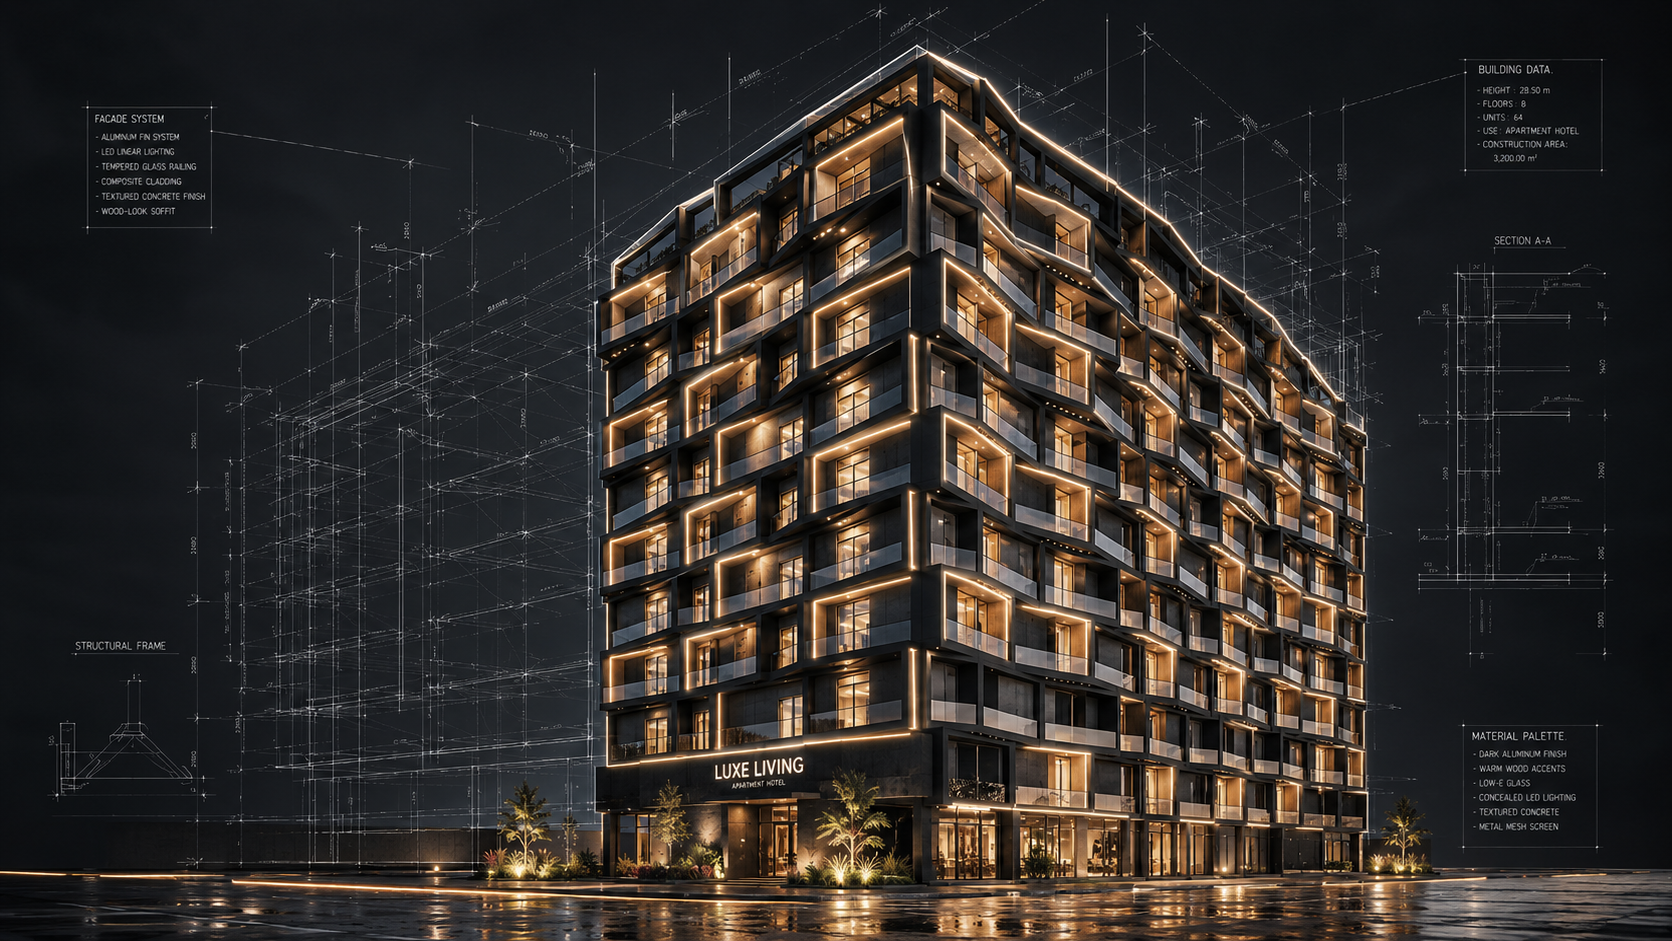
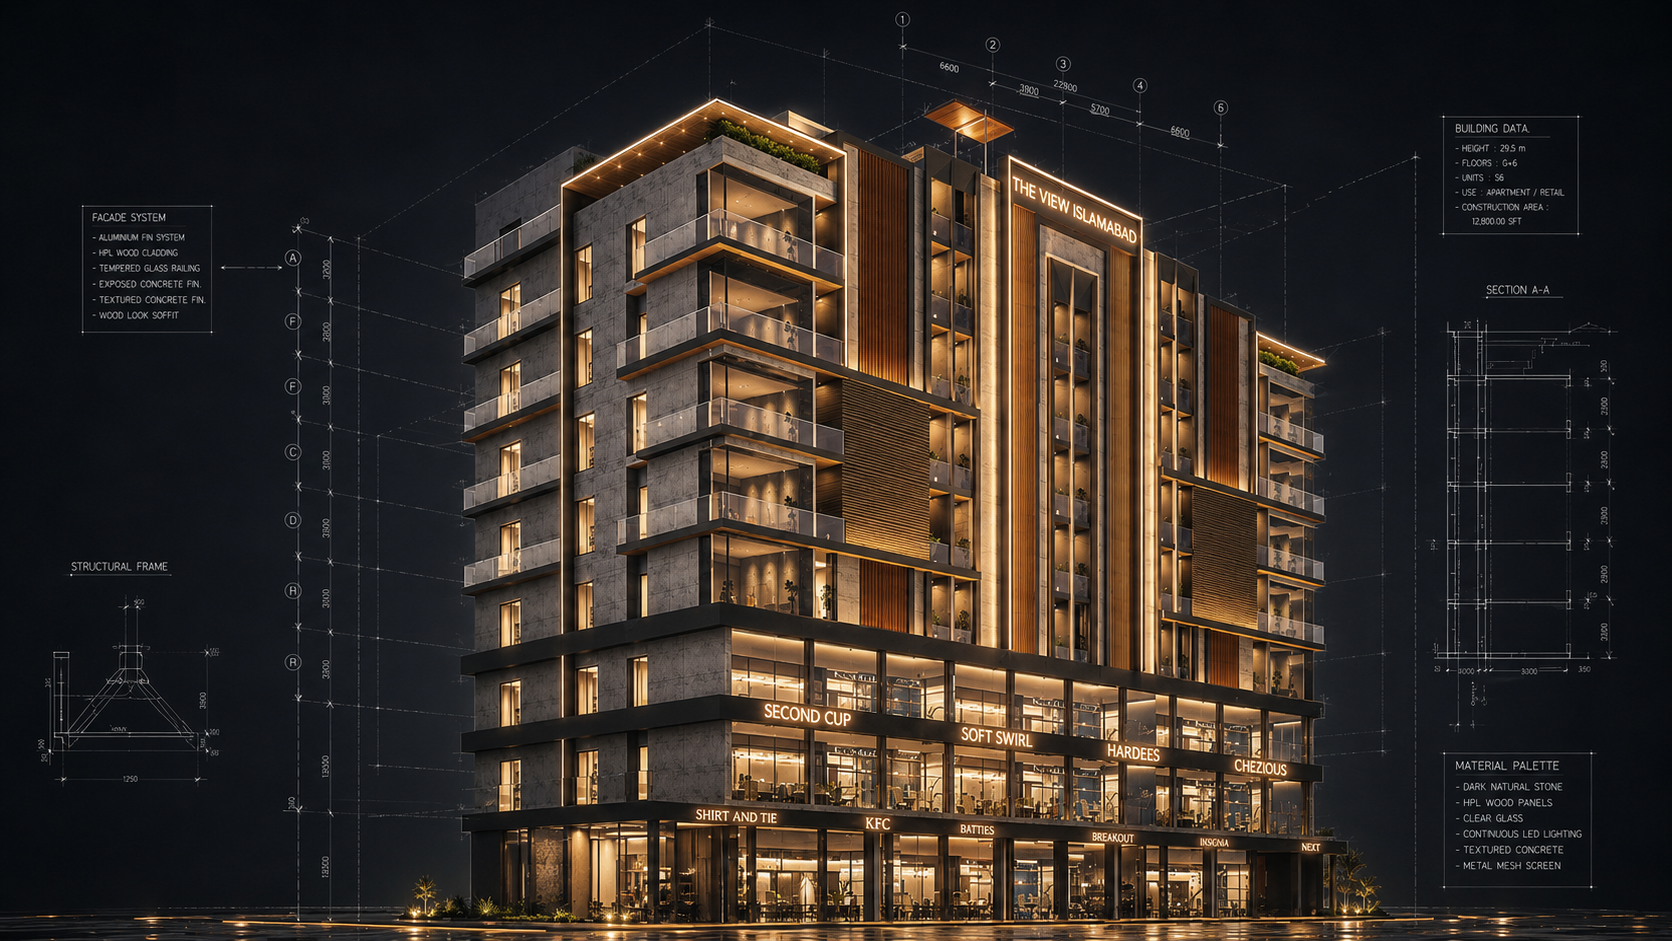
Fix project card images: correct Grand 11, Grand 12, Grand 15 assignments

diff --git a/src/data/projects.js b/src/data/projects.js
@@ -82,7 +82,7 @@ export const PROJECTS_DATA = [
     locationDetail: 'Near Talwar Chowk, Midway Commercial, Bahria Town Lahore',
     status: 'Completed',
     heroImage: '/images/grand-11-1.png',
-    cardImage: '/images/grand-11-render.png',
+    cardImage: '/images/grand-15.jpg',
     localHero: '/images/grand-11-1.png',
     officialPage: 'https://landmarkdevelopers.landmarkdevelopers.com.pk/grand-11/',
     description:
@@ -285,7 +285,7 @@ export const PROJECTS_DATA = [
     locationDetail: 'Bahria Downtown, Main Boulevard Lahore',
     status: 'Flagship Launch',
     heroImage: '/images/grand-15-2.png',
-    cardImage: '/images/grand-15.jpg',
+    cardImage: '/images/grand-15.png',
     localHero: '/images/grand-15-2.png',
     officialPage: 'https://landmarkdevelopers.landmarkdevelopers.com.pk/grand-15/',
     description: